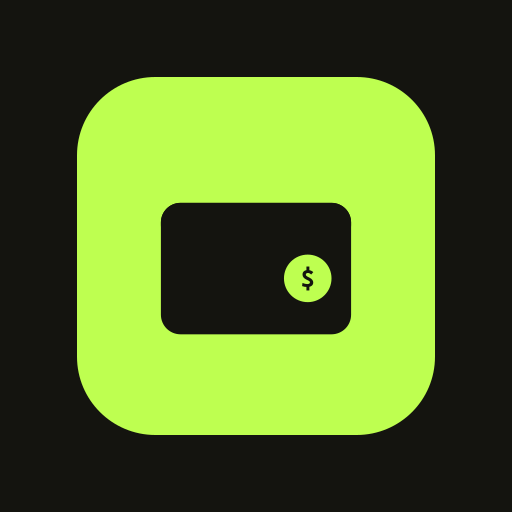
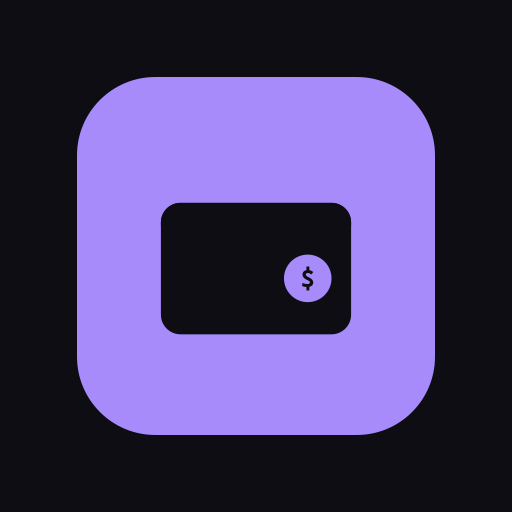
Switch palette from lime to violet with black
Rename electric-lime token to electric-violet (#a78bfa), tint the
neutrals toward purple, and regenerate icons/manifest colors.

diff --git a/src/components/NewTransactionForm.tsx b/src/components/NewTransactionForm.tsx
@@ -151,7 +151,7 @@ export function NewTransactionForm({
               }}
               className={`flex-1 flex flex-col items-center gap-1 py-2.5 rounded-buttons text-caption font-medium transition-colors ${
                 active
-                  ? 'bg-electric-lime text-off-black-ink'
+                  ? 'bg-electric-violet text-off-black-ink'
                   : 'text-graphite dark:text-smoke'
               }`}
             >
@@ -202,7 +202,7 @@ export function NewTransactionForm({
                 onClick={() => setAccountId(a.id)}
                 className={`flex items-center gap-1.5 px-3 py-2 rounded-pills text-body-sm font-medium border shrink-0 ${
                   active
-                    ? 'bg-off-black-ink text-electric-lime border-off-black-ink dark:bg-electric-lime dark:text-off-black-ink dark:border-electric-lime'
+                    ? 'bg-off-black-ink text-electric-violet border-off-black-ink dark:bg-electric-violet dark:text-off-black-ink dark:border-electric-violet'
                     : 'border-ash dark:border-graphite/40 text-graphite dark:text-smoke'
                 }`}
               >
@@ -230,7 +230,7 @@ export function NewTransactionForm({
                     onClick={() => setDestinationAccountId(a.id)}
                     className={`flex items-center gap-1.5 px-3 py-2 rounded-pills text-body-sm font-medium border shrink-0 ${
                       active
-                        ? 'bg-off-black-ink text-electric-lime border-off-black-ink dark:bg-electric-lime dark:text-off-black-ink dark:border-electric-lime'
+                        ? 'bg-off-black-ink text-electric-violet border-off-black-ink dark:bg-electric-violet dark:text-off-black-ink dark:border-electric-violet'
                         : 'border-ash dark:border-graphite/40 text-graphite dark:text-smoke'
                     }`}
                   >
@@ -255,7 +255,7 @@ export function NewTransactionForm({
               onClick={() => setCategoryId('')}
               className={`px-3 py-2 rounded-pills text-body-sm font-medium border shrink-0 ${
                 categoryId === ''
-                  ? 'bg-off-black-ink text-electric-lime border-off-black-ink dark:bg-electric-lime dark:text-off-black-ink dark:border-electric-lime'
+                  ? 'bg-off-black-ink text-electric-violet border-off-black-ink dark:bg-electric-violet dark:text-off-black-ink dark:border-electric-violet'
                   : 'border-ash dark:border-graphite/40 text-graphite dark:text-smoke'
               }`}
             >
@@ -296,7 +296,7 @@ export function NewTransactionForm({
               onClick={() => setOccurredAt(toLocalDatetimeInput(new Date().toISOString()))}
               className={`px-3 py-2 rounded-pills text-body-sm font-medium border ${
                 isToday(occurredAt)
-                  ? 'bg-off-black-ink text-electric-lime border-off-black-ink dark:bg-electric-lime dark:text-off-black-ink dark:border-electric-lime'
+                  ? 'bg-off-black-ink text-electric-violet border-off-black-ink dark:bg-electric-violet dark:text-off-black-ink dark:border-electric-violet'
                   : 'border-ash dark:border-graphite/40 text-graphite dark:text-smoke'
               }`}
             >
@@ -309,7 +309,7 @@ export function NewTransactionForm({
               }
               className={`px-3 py-2 rounded-pills text-body-sm font-medium border ${
                 isYesterday(occurredAt)
-                  ? 'bg-off-black-ink text-electric-lime border-off-black-ink dark:bg-electric-lime dark:text-off-black-ink dark:border-electric-lime'
+                  ? 'bg-off-black-ink text-electric-violet border-off-black-ink dark:bg-electric-violet dark:text-off-black-ink dark:border-electric-violet'
                   : 'border-ash dark:border-graphite/40 text-graphite dark:text-smoke'
               }`}
             >
@@ -357,7 +357,7 @@ export function NewTransactionForm({
         <button
           type="submit"
           disabled={isSubmitting}
-          className="flex-1 px-5 py-2.5 rounded-buttons bg-electric-lime text-off-black-ink font-medium hover:opacity-90 disabled:opacity-50"
+          className="flex-1 px-5 py-2.5 rounded-buttons bg-electric-violet text-off-black-ink font-medium hover:opacity-90 disabled:opacity-50"
         >
           {editingTransaction ? 'Guardar cambios' : 'Guardar'}
         </button>

diff --git a/src/components/NewRecurringForm.tsx b/src/components/NewRecurringForm.tsx
@@ -134,7 +134,7 @@ export function NewRecurringForm({
                 setCategoryId('');
               }}
               className={`flex-1 flex flex-col items-center gap-1 py-2.5 rounded-buttons text-caption font-medium transition-colors ${
-                active ? 'bg-electric-lime text-off-black-ink' : 'text-graphite dark:text-smoke'
+                active ? 'bg-electric-violet text-off-black-ink' : 'text-graphite dark:text-smoke'
               }`}
             >
               <Icon size={18} />
@@ -182,7 +182,7 @@ export function NewRecurringForm({
                 onClick={() => setAccountId(a.id)}
                 className={`flex items-center gap-1.5 px-3 py-2 rounded-pills text-body-sm font-medium border shrink-0 ${
                   active
-                    ? 'bg-off-black-ink text-electric-lime border-off-black-ink dark:bg-electric-lime dark:text-off-black-ink dark:border-electric-lime'
+                    ? 'bg-off-black-ink text-electric-violet border-off-black-ink dark:bg-electric-violet dark:text-off-black-ink dark:border-electric-violet'
                     : 'border-ash dark:border-graphite/40 text-graphite dark:text-smoke'
                 }`}
               >
@@ -210,7 +210,7 @@ export function NewRecurringForm({
                     onClick={() => setDestinationAccountId(a.id)}
                     className={`flex items-center gap-1.5 px-3 py-2 rounded-pills text-body-sm font-medium border shrink-0 ${
                       active
-                        ? 'bg-off-black-ink text-electric-lime border-off-black-ink dark:bg-electric-lime dark:text-off-black-ink dark:border-electric-lime'
+                        ? 'bg-off-black-ink text-electric-violet border-off-black-ink dark:bg-electric-violet dark:text-off-black-ink dark:border-electric-violet'
                         : 'border-ash dark:border-graphite/40 text-graphite dark:text-smoke'
                     }`}
                   >
@@ -232,7 +232,7 @@ export function NewRecurringForm({
               onClick={() => setCategoryId('')}
               className={`px-3 py-2 rounded-pills text-body-sm font-medium border shrink-0 ${
                 categoryId === ''
-                  ? 'bg-off-black-ink text-electric-lime border-off-black-ink dark:bg-electric-lime dark:text-off-black-ink dark:border-electric-lime'
+                  ? 'bg-off-black-ink text-electric-violet border-off-black-ink dark:bg-electric-violet dark:text-off-black-ink dark:border-electric-violet'
                   : 'border-ash dark:border-graphite/40 text-graphite dark:text-smoke'
               }`}
             >
@@ -272,7 +272,7 @@ export function NewRecurringForm({
                 onClick={() => setDayOfMonth(day)}
                 className={`flex items-center justify-center w-9 h-9 rounded-pills text-body-sm font-medium border shrink-0 ${
                   active
-                    ? 'bg-off-black-ink text-electric-lime border-off-black-ink dark:bg-electric-lime dark:text-off-black-ink dark:border-electric-lime'
+                    ? 'bg-off-black-ink text-electric-violet border-off-black-ink dark:bg-electric-violet dark:text-off-black-ink dark:border-electric-violet'
                     : 'border-ash dark:border-graphite/40 text-graphite dark:text-smoke'
                 }`}
               >
@@ -306,7 +306,7 @@ export function NewRecurringForm({
         <button
           type="submit"
           disabled={isSubmitting}
-          className="flex-1 px-5 py-2.5 rounded-buttons bg-electric-lime text-off-black-ink font-medium hover:opacity-90 disabled:opacity-50"
+          className="flex-1 px-5 py-2.5 rounded-buttons bg-electric-violet text-off-black-ink font-medium hover:opacity-90 disabled:opacity-50"
         >
           {editingRecurring ? 'Guardar cambios' : 'Crear recurrente'}
         </button>

diff --git a/src/components/Onboarding.tsx b/src/components/Onboarding.tsx
@@ -83,7 +83,7 @@ export function Onboarding({ onFinish }: { onFinish: () => void }) {
             const Icon = slide.icon;
             return (
               <div key={i} className="w-full shrink-0 flex flex-col items-center text-center px-4">
-                <div className="w-24 h-24 rounded-cards bg-electric-lime flex items-center justify-center mb-8">
+                <div className="w-24 h-24 rounded-cards bg-electric-violet flex items-center justify-center mb-8">
                   <Icon size={40} className="text-off-black-ink" />
                 </div>
                 <h2 className="text-subheading font-medium text-off-black-ink dark:text-off-white-canvas mb-3">
@@ -105,7 +105,7 @@ export function Onboarding({ onFinish }: { onFinish: () => void }) {
             onClick={() => goTo(i)}
             aria-label={`Ir al paso ${i + 1}`}
             className={`h-2 rounded-pills transition-all ${
-              i === index ? 'w-6 bg-electric-lime' : 'w-2 bg-ash dark:bg-graphite/40'
+              i === index ? 'w-6 bg-electric-violet' : 'w-2 bg-ash dark:bg-graphite/40'
             }`}
           />
         ))}
@@ -114,7 +114,7 @@ export function Onboarding({ onFinish }: { onFinish: () => void }) {
       <div className="px-6 pb-8">
         <button
           onClick={() => (isLast ? onFinish() : goTo(index + 1))}
-          className="w-full flex items-center justify-center gap-2 px-5 py-3 rounded-buttons bg-electric-lime text-off-black-ink font-medium hover:opacity-90"
+          className="w-full flex items-center justify-center gap-2 px-5 py-3 rounded-buttons bg-electric-violet text-off-black-ink font-medium hover:opacity-90"
         >
           {isLast ? 'Comenzar' : 'Siguiente'}
           <ArrowRight size={18} />

diff --git a/src/components/Dashboard.tsx b/src/components/Dashboard.tsx
@@ -117,7 +117,7 @@ export function Dashboard() {
       </div>
 
       <div className="max-w-5xl mx-auto px-4 sm:px-6 mt-6">
-        <div className="bg-electric-lime rounded-cards p-6 flex flex-col items-center text-center">
+        <div className="bg-electric-violet rounded-cards p-6 flex flex-col items-center text-center">
           <p className="text-eyebrow uppercase tracking-eyebrow text-off-black-ink/70 font-medium">
             Saldo total
           </p>
@@ -132,7 +132,7 @@ export function Dashboard() {
                   onClick={() => setSelectedCurrency(currency)}
                   className={`px-3 py-1 rounded-pills text-caption font-medium border ${
                     currency === activeCurrency
-                      ? 'bg-off-black-ink text-electric-lime border-off-black-ink'
+                      ? 'bg-off-black-ink text-electric-violet border-off-black-ink'
                       : 'border-off-black-ink/30 text-off-black-ink/70'
                   }`}
                 >

diff --git a/src/index.css b/src/index.css
@@ -2,15 +2,15 @@
 @custom-variant dark (&:where(.dark, .dark *));
 
 @theme {
-  --color-electric-lime: #beff50;
-  --color-off-black-ink: #14140f;
-  --color-off-white-canvas: #f5f5eb;
+  --color-electric-violet: #a78bfa;
+  --color-off-black-ink: #0f0d14;
+  --color-off-white-canvas: #f4f1fb;
   --color-pure-white: #ffffff;
-  --color-ash: #d2d2c8;
-  --color-graphite: #6e6e64;
-  --color-deep-charcoal: #3a3a33;
-  --color-stone: #919183;
-  --color-smoke: #b9b9b7;
+  --color-ash: #d9d3e6;
+  --color-graphite: #6b6580;
+  --color-deep-charcoal: #2a2536;
+  --color-stone: #8c85a0;
+  --color-smoke: #bdb8cc;
 
   --font-otsono:
     'OTSono', 'Inter', ui-sans-serif, system-ui, -apple-system, BlinkMacSystemFont, 'Segoe UI',

diff --git a/index.html b/index.html
@@ -6,7 +6,7 @@
     <link rel="icon" type="image/png" sizes="16x16" href="/favicon-16x16.png" />
     <link rel="apple-touch-icon" href="/apple-touch-icon.png" />
     <meta name="viewport" content="width=device-width, initial-scale=1.0, viewport-fit=cover" />
-    <meta name="theme-color" content="#beff50" />
+    <meta name="theme-color" content="#a78bfa" />
     <meta name="apple-mobile-web-app-capable" content="yes" />
     <meta name="apple-mobile-web-app-status-bar-style" content="default" />
     <meta name="apple-mobile-web-app-title" content="Finanzas" />

diff --git a/src/components/ToastHost.tsx b/src/components/ToastHost.tsx
@@ -18,7 +18,7 @@ export function ToastHost() {
           onClick={() => dismiss(t.id)}
           className={`pointer-events-auto flex items-center gap-2 px-4 py-2.5 rounded-buttons shadow-none border text-body-sm font-medium animate-toast-in ${
             t.variant === 'success'
-              ? 'bg-electric-lime border-electric-lime text-off-black-ink'
+              ? 'bg-electric-violet border-electric-violet text-off-black-ink'
               : 'bg-off-black-ink border-off-black-ink text-off-white-canvas'
           }`}
         >

diff --git a/src/components/RecurringList.tsx b/src/components/RecurringList.tsx
@@ -66,7 +66,7 @@ export function RecurringList({ onEdit }: { onEdit: (r: RecurringTransaction) =>
               <button
                 onClick={() => toggleRecurringActive(r.id, !r.isActive)}
                 className={`relative w-9 h-5 rounded-pills transition-colors ${
-                  r.isActive ? 'bg-electric-lime' : 'bg-ash dark:bg-graphite/40'
+                  r.isActive ? 'bg-electric-violet' : 'bg-ash dark:bg-graphite/40'
                 }`}
                 title={r.isActive ? 'Activa' : 'Pausada'}
               >

diff --git a/src/components/BottomNav.tsx b/src/components/BottomNav.tsx
@@ -50,7 +50,7 @@ export function BottomNav({
         ))}
         <button
           onClick={onAdd}
-          className="absolute left-1/2 -translate-x-1/2 -top-6 w-14 h-14 rounded-pills bg-electric-lime text-off-black-ink flex items-center justify-center hover:opacity-90"
+          className="absolute left-1/2 -translate-x-1/2 -top-6 w-14 h-14 rounded-pills bg-electric-violet text-off-black-ink flex items-center justify-center hover:opacity-90"
           title="Nueva transacción"
         >
           <Plus size={26} />

diff --git a/src/components/AccountCard.tsx b/src/components/AccountCard.tsx
@@ -32,7 +32,7 @@ export function AccountCard({
   const displayedBalance = useCountUp(balance);
   return (
     <div className="flex items-center gap-3 py-3">
-      <div className="w-10 h-10 rounded-pills bg-electric-lime flex items-center justify-center shrink-0">
+      <div className="w-10 h-10 rounded-pills bg-electric-violet flex items-center justify-center shrink-0">
         <Icon size={18} className="text-off-black-ink" />
       </div>
       <div className="flex-1 min-w-0">

diff --git a/src/components/ThemeToggle.tsx b/src/components/ThemeToggle.tsx
@@ -25,7 +25,7 @@ export function ThemeToggle({
             onClick={() => onChange(opt.value)}
             className={`flex items-center gap-1.5 px-3 py-1.5 rounded-pills text-body-sm font-medium ${
               active
-                ? 'bg-electric-lime text-off-black-ink'
+                ? 'bg-electric-violet text-off-black-ink'
                 : 'text-graphite dark:text-smoke hover:text-off-black-ink dark:hover:text-off-white-canvas'
             }`}
           >

diff --git a/src/components/NewAccountForm.tsx b/src/components/NewAccountForm.tsx
@@ -127,7 +127,7 @@ export function NewAccountForm({
         <button
           type="submit"
           disabled={isSubmitting}
-          className="px-5 py-2.5 rounded-buttons bg-electric-lime text-off-black-ink hover:opacity-90 disabled:opacity-50"
+          className="px-5 py-2.5 rounded-buttons bg-electric-violet text-off-black-ink hover:opacity-90 disabled:opacity-50"
         >
           {editingAccount ? 'Guardar cambios' : 'Crear cuenta'}
         </button>
